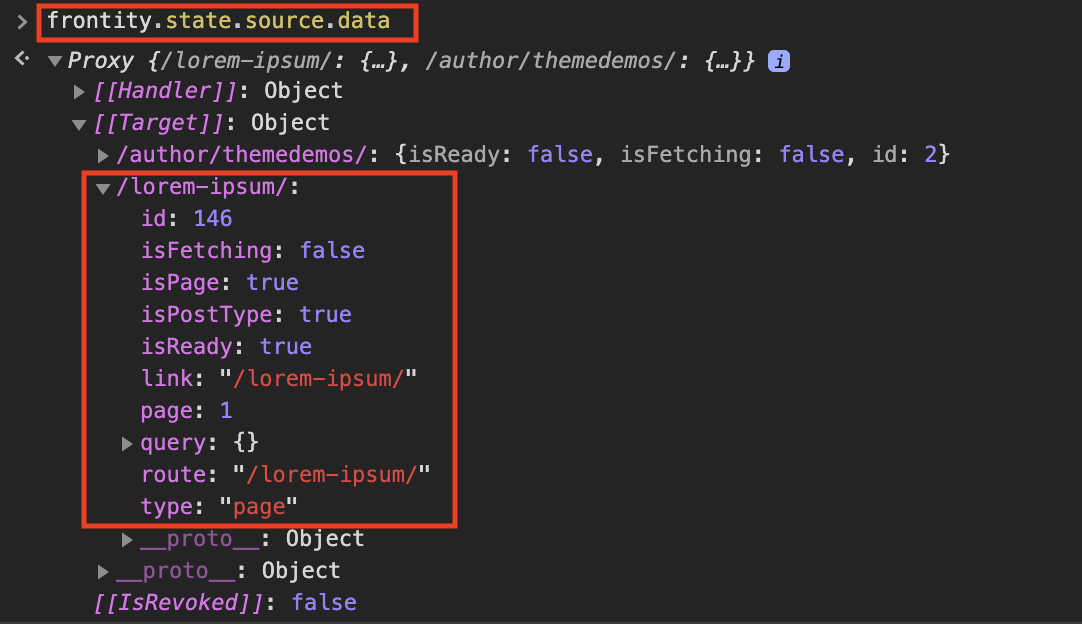
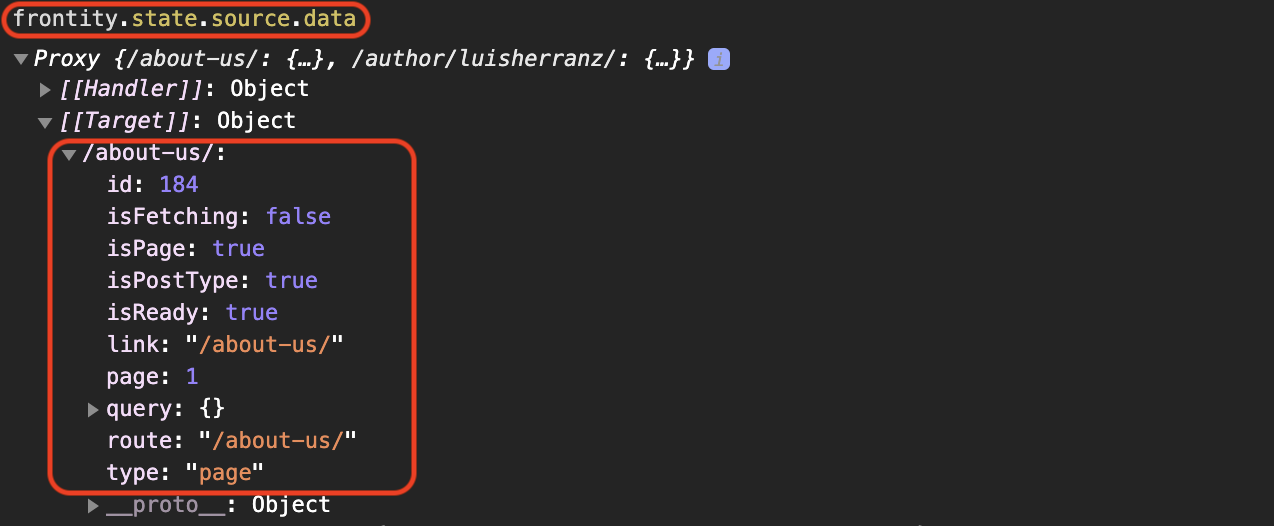
Updated 'understanding-the-frontity-state.md' and replaced images in 'assets' folder

Changed region(s): [[0.0, 0.0, 0.732, 1.0], [0.488, 0.2129, 0.7015, 0.2738], [0.732, 0.2129, 0.8845, 0.2738]]

diff --git a/tutorial/part3-displaying-posts/understanding-the-frontity-state.md b/tutorial/part3-displaying-posts/understanding-the-frontity-state.md
@@ -6,7 +6,7 @@
 
 In order to gain a better understanding of Frontity, let’s dig a little deeper and investigate how it works below the surface.
 
-To do so, access `http://localhost:3000/lorem-ipsum/` in the browser and open the console. In the console type `frontity.state` to see the Frontity state. This is the same state that the components and actions have access to.
+To do so, access `http://localhost:3000/about-us/` in the browser and open the console. In the console type `frontity.state` to see the Frontity state. This is the same state that the components and actions have access to.
 
 <p>
   <img alt="Frontity in the console" src="../assets/console-1.png">
@@ -16,13 +16,13 @@ To do so, access `http://localhost:3000/lorem-ipsum/` in the browser and open th
 
 You will see Frontity's global state, including the general properties of your Frontity project. You can also see information about the `router`, including the `state.router.link` that we used earlier, and `source`, the package that connects Frontity to your WordPress site.
 
-Let’s take a look at `state.source.data`. This is where the information for each URL is stored. If you inspect `/lorem-ipsum/`, you can see that it’s a page, and that it has the ID 146.
+Let’s take a look at `state.source.data`. This is where the information for each URL is stored. If you inspect `/about-us/`, you can see that it’s a page, and that it has the ID 184.
 
 <p>
   <img alt="Frontity in the console" src="../assets/console-2.png" width="600">
 </p>
 
-With that information, we can access the data (title, content, etc) of that page with `state.source.page[146]`:
+With that information, we can access the data (title, content, etc) of that page with `state.source.page[184]`:
 
 <p>
   <img alt="Frontity in the console" src="../assets/console-3.png">
@@ -32,6 +32,11 @@ As you navigate from one URL to another, the package `@frontity/wp-source` autom
 
 If we open the Network tab (in the browser's devtools) and click on the menu to go to Home (Homepage), you will see that a call to the REST API is made to get the latest posts.
 
+<p>
+  <img alt="Browser developer tools network tab showing fetch" src="../assets/console-4.png" width="700">
+</p>
+
+
 Take another look at `state.source.data`. You will notice that it's been populated with much more data than before.
 
 Please note that instead of using `state.source.data[url]` it’s better to use the `get` helper function: `state.source.get(url)`. This ensures that URLs always include the final slash (/).
@@ -39,7 +44,7 @@ Please note that instead of using `state.source.data[url]` it’s better to use 
 So now let’s inspect the homepage using state.source.get("/"):
 
 <p>
-  <img alt="Frontity in the console" src="../assets/console-4.png" width="700">
+  <img alt="Frontity in the console" src="../assets/console-5.png" width="700">
 </p>
 
 As you can see, it has several interesting properties such as `isHome`, `isArchive`, and an array of `items`. If the homepage were a category it would have an `isCategory` property. If it were a post it would have an `isPost` property, etc...
@@ -56,12 +61,12 @@ const Root = ({ state }) => {
 
   return (
     <>
-      <h1>Frontity Workshop</h1>
+      <h1>Hello Frontity</h1>
       <p>Current URL: {state.router.link}</p>
       <nav>
-        <Link href="/">Home</Link>
-        <Link href="/page/2">More posts</Link>
-        <Link href="/lorem-ipsum">Lorem Ipsum</Link>
+        <Link link="/">Home</Link><br />
+        <Link link="/page/2">More posts</Link><br />
+        <Link link="/about-us">About Us</Link>
       </nav>
       <hr />
       <main>

diff --git a/tutorial/part5-adding-behaviour/add-pagination.md b/tutorial/part5-adding-behaviour/add-pagination.md
@@ -7,7 +7,7 @@
 Click on the `More posts` link in the menu to navigate to `/page/2` and examine `frontity.state` in the console. You will notice that the data for the page has both `previous` and `next` properties.
 
 <p>
-  <img alt="Frontity in the console" src="../assets/console-5.png" width="700">
+  <img alt="Frontity in the console" src="../assets/console-6.png" width="700">
 </p>
 
 We can use these properties to add pagination to our `<List>` component. We will add a `<PrevNextNav>` component to style two buttons that enable us to page through the lists of posts.

diff --git a/tutorial/part2-adding-a-menu/use-the-link-component.md b/tutorial/part2-adding-a-menu/use-the-link-component.md
@@ -41,7 +41,7 @@ const Root = ({ state }) => {
       <nav>
         <Link link="/">Home</Link><br />
         <Link link="/page/2">More posts</Link><br />
-        <Link link="/lorem-ipsum">Lorem Ipsum</Link>
+        <Link link="/about-us">About Us</Link>
       </nav>
     </>
   );

diff --git a/tutorial/part7-taking-care-of-the-seo/add-tags-to-the-head-element.md b/tutorial/part7-taking-care-of-the-seo/add-tags-to-the-head-element.md
@@ -37,5 +37,5 @@ Check your document with the browser devtools and you should see these showing u
 
 
 <p>
-  <img alt="Frontity in the console" src="../assets/console-6.png" width="800">
+  <img alt="Frontity in the console" src="../assets/console-7.png" width="800">
 </p>
